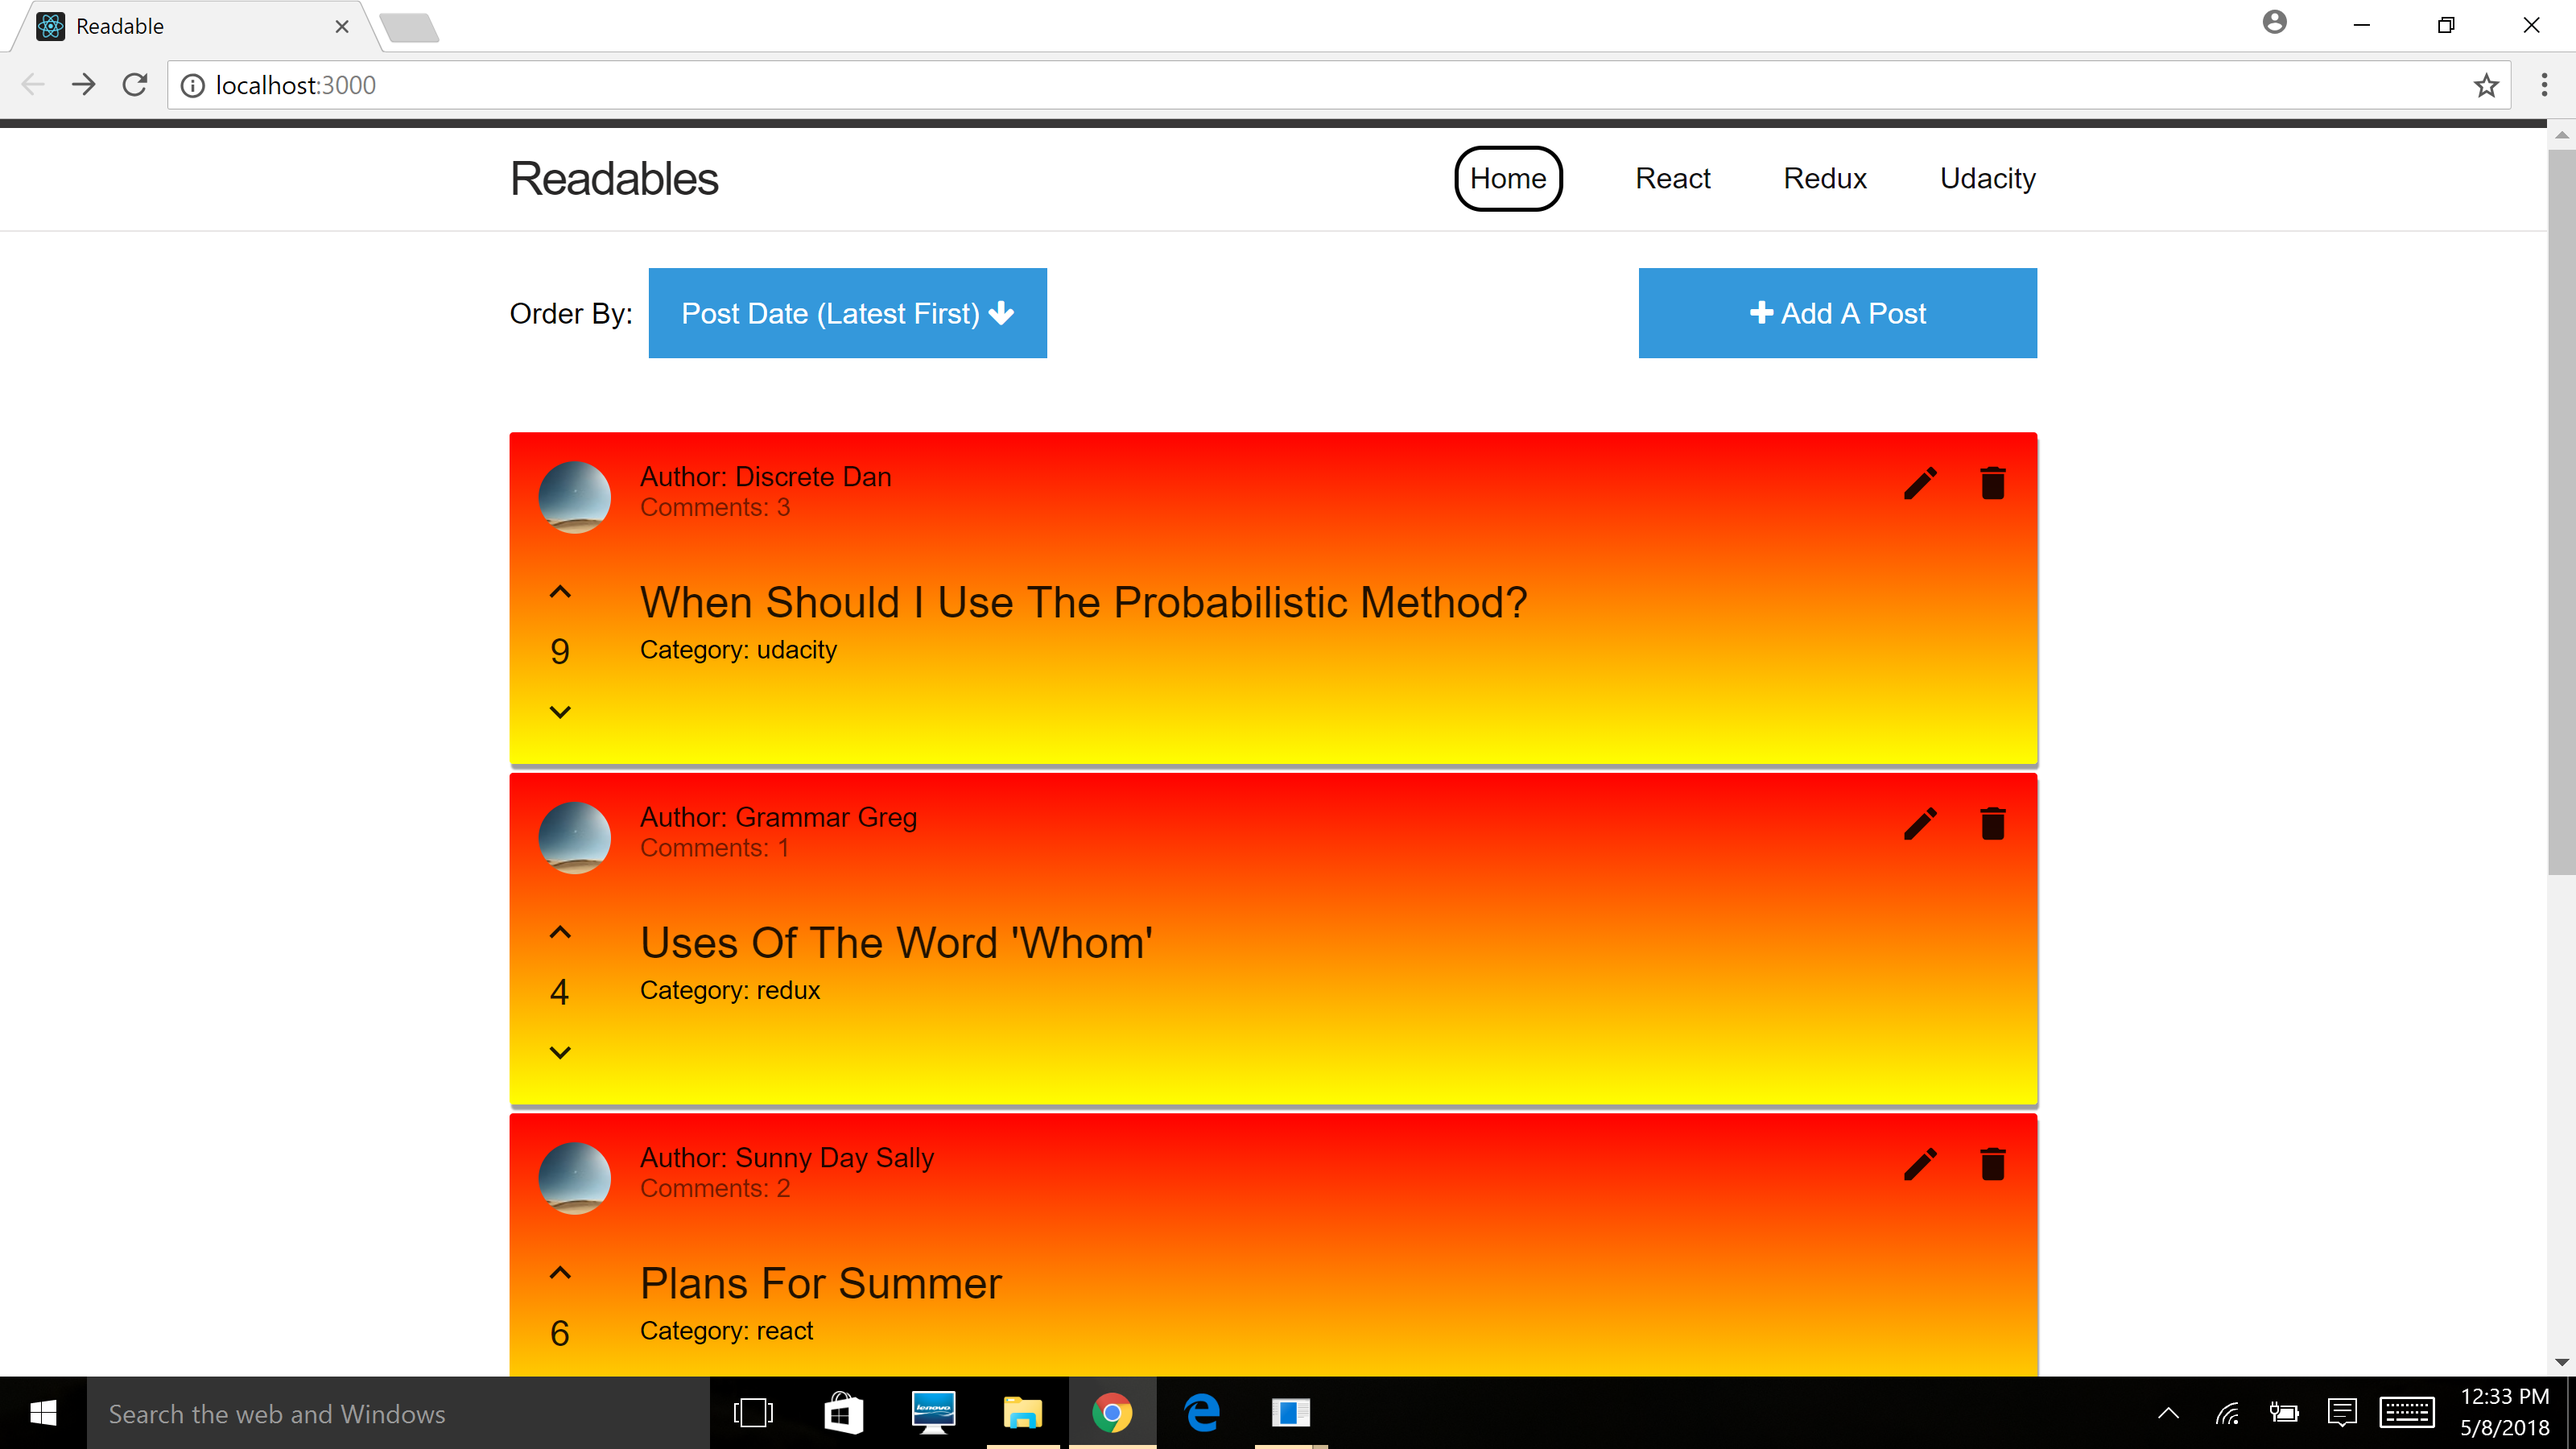
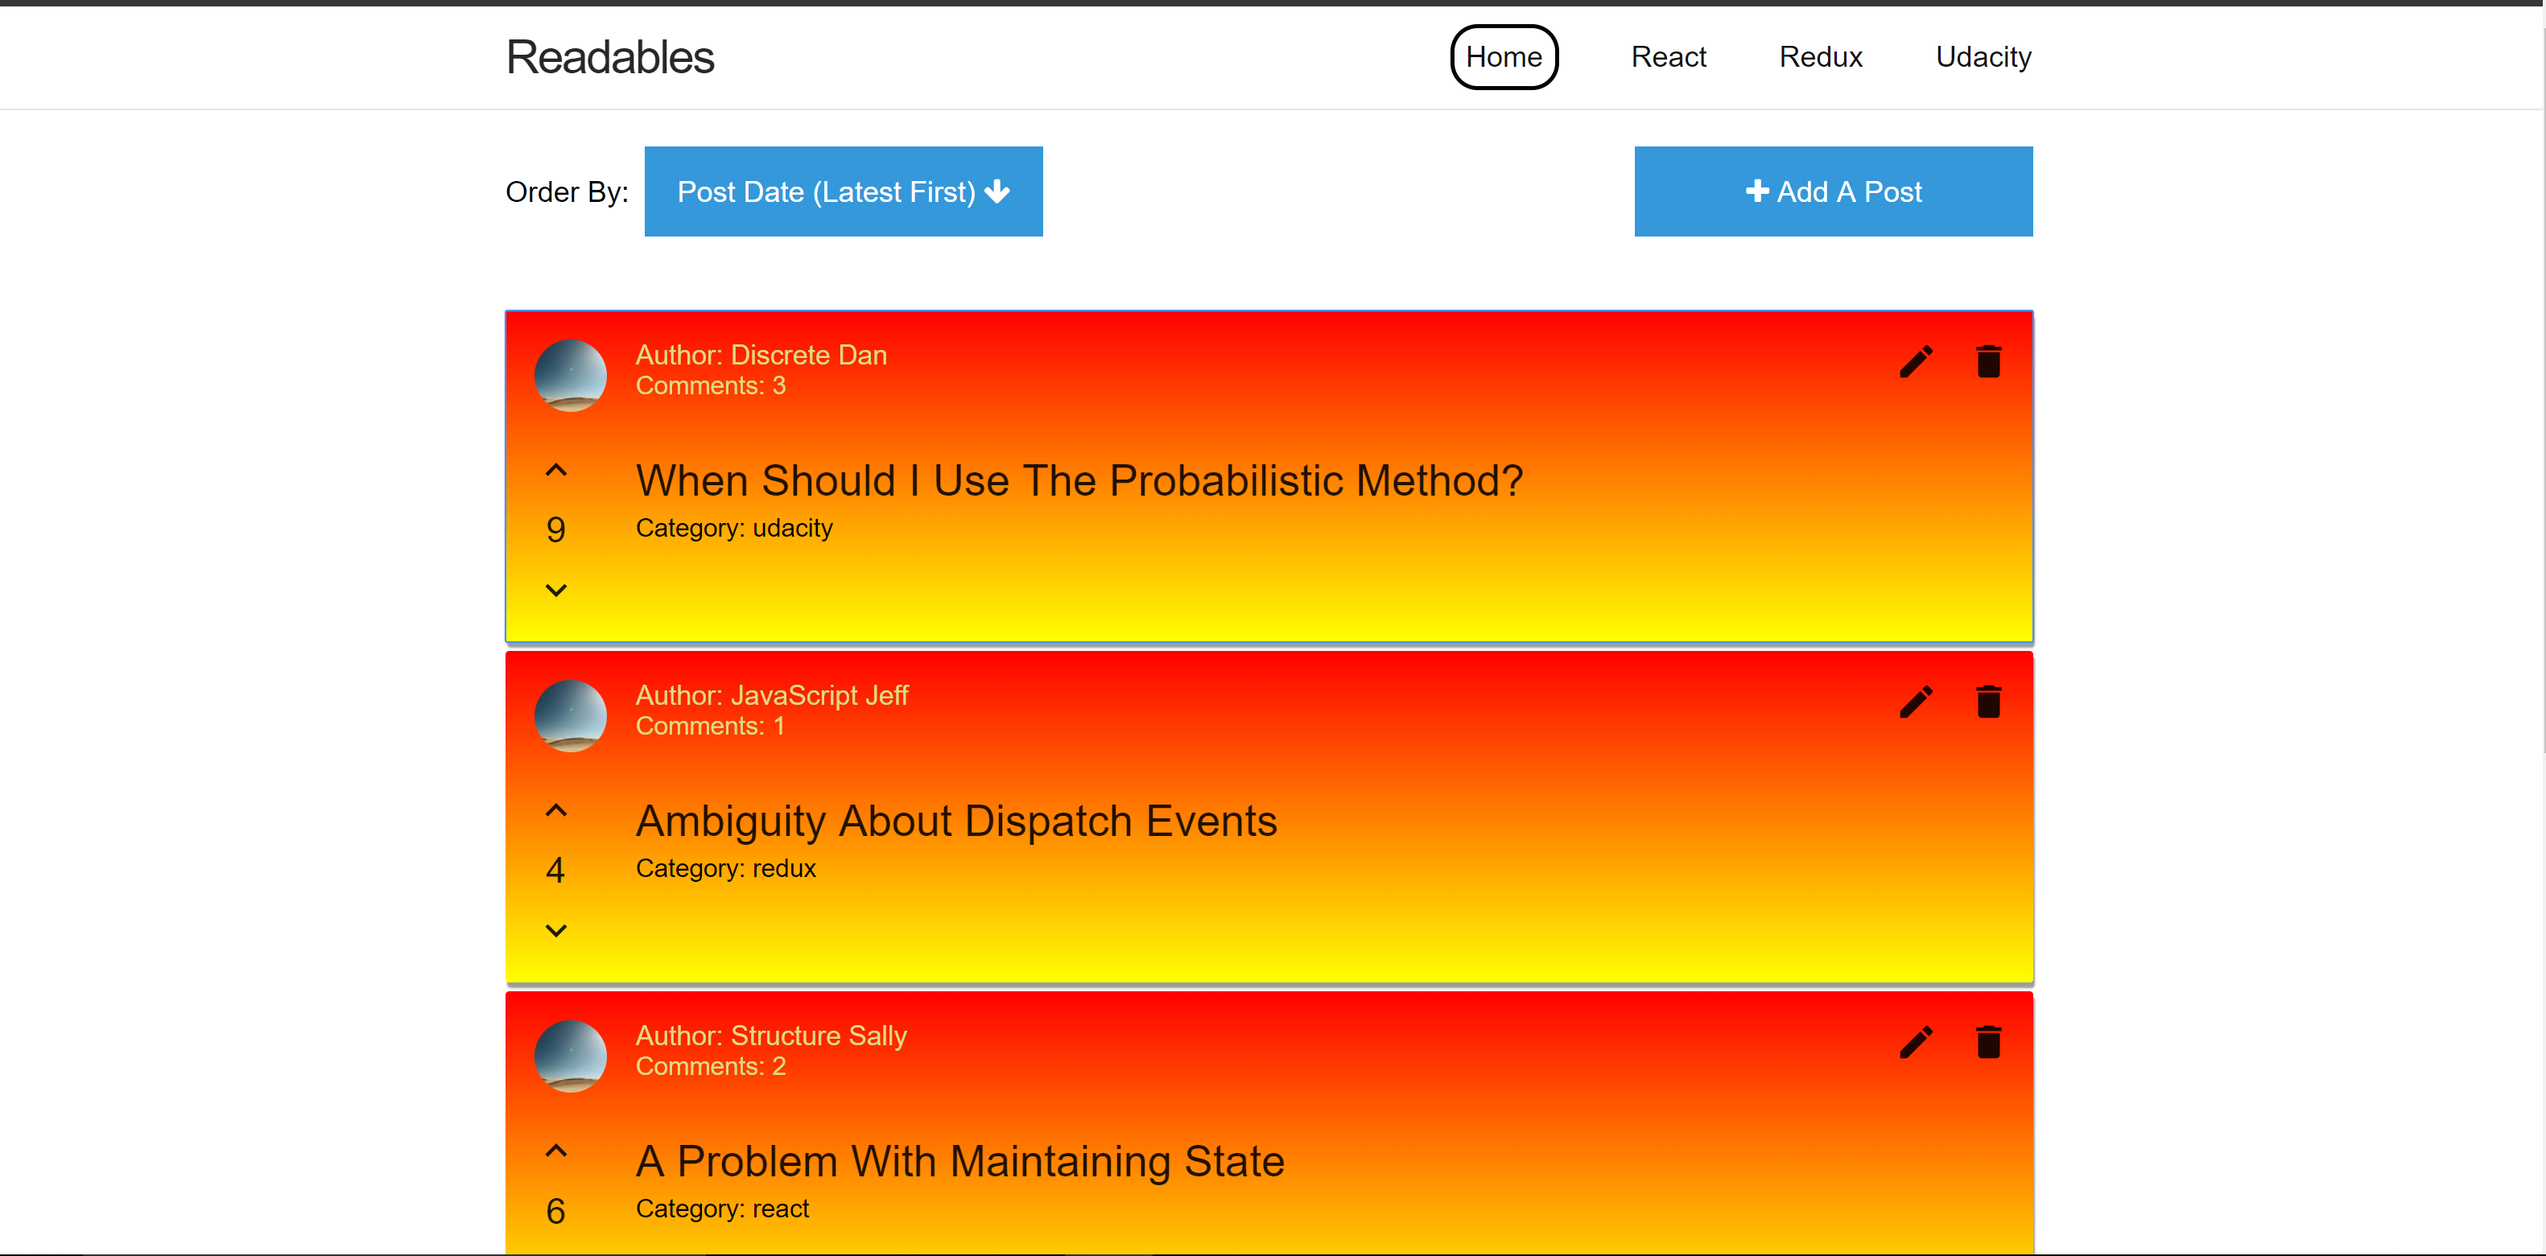
feat: Reset 'Readables' screen shots

diff --git a/projects/readable.html b/projects/readable.html
@@ -120,37 +120,16 @@
 
           <div class="extra-content hide-content">
             <p>
-              The application begins with the menu shown above. All other page
-              frames have return buttons back to this page. Clicking "Look Up An
-              Entry" brings you to the following frame in the first image below.
-              As mentioned above, you can make queries based on ID in the
-              database or one of the "Add Entry" attributes described above.
-              When the corresponding check box is clicked, an entry widget
-              appears to input data. If no items match the search conditions,
-              then a message to this effect appears in the following text box.
-              Otherwise, a series of search results appears, as seen in the
-              second image below. An "expanded view" check button can be used to
-              toggle between abridged and complete forms of data entries.
-              Warnings will be given for invalid or out-of-range IDs or dates.
-            </p>
-            <p>
-              Note that the "Mentioned Words" and "Source" fields will select
-              entries which match any single searched word (even among many).
+              A view of a sample main page with posts sorted by latest
+              modification:
             </p>
 
-            <div class="pair-container frogger-pair">
-              <img class="added-image pair-image database-left pale-edge
-                          database-search"
-                   src="../img/database-search-blank.png"
-                   alt="The Blank Database Search Page">
-
-              <img class="added-image pair-image database-right pale-edge
-                          database-search"
-                   src="../img/database-search-data.png"
-                   alt="The Database Search Page After A Query">
-
-              <span class="stretch"></span>
-            </div>
+            <img class="added-image pair-image database-left pale-edge
+                        database-search"
+                 src="../img/readable-main-page.png"
+                 alt="A view of a sample main page with posts sorted by latest
+                   modification.">
+            
 
             <img class="added-image normal-image frogger-small-scale pale-edge"
                  src="../img/database-search-blank.png"

diff --git a/index.html b/index.html
@@ -67,8 +67,10 @@
       </a>
       <a class="project-unit" href="projects/readable.html">
         <div class="project-image-wrapper">
-          <img class="project-image pale-edge pic0" src="img/readable-post-page.png"
-               alt="A sample image of an individual post's page including the original post and some comments.">
+          <img class="project-image pale-edge pic0"
+            src="img/readable-post-page-modified.png"
+            alt="A sample image of an individual post's page including the
+              original post and some comments.">
           <div class="project-paragraph-wrapper hide-content pic0">
             <p>
               <strong>A basic forum and posting application allowing comments, voting, editing, and topic differentiation.</strong>
